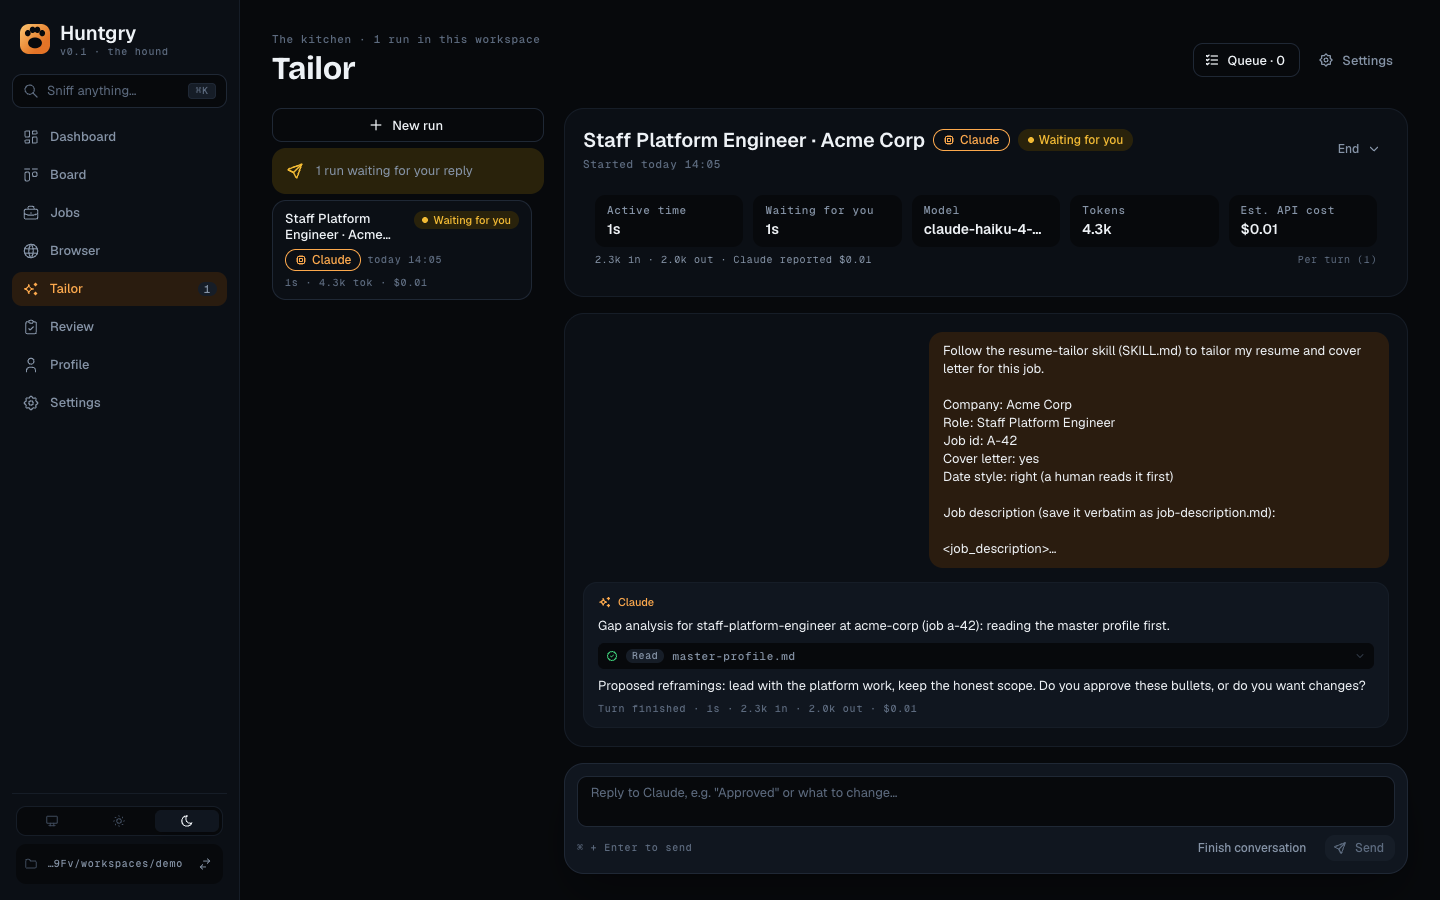
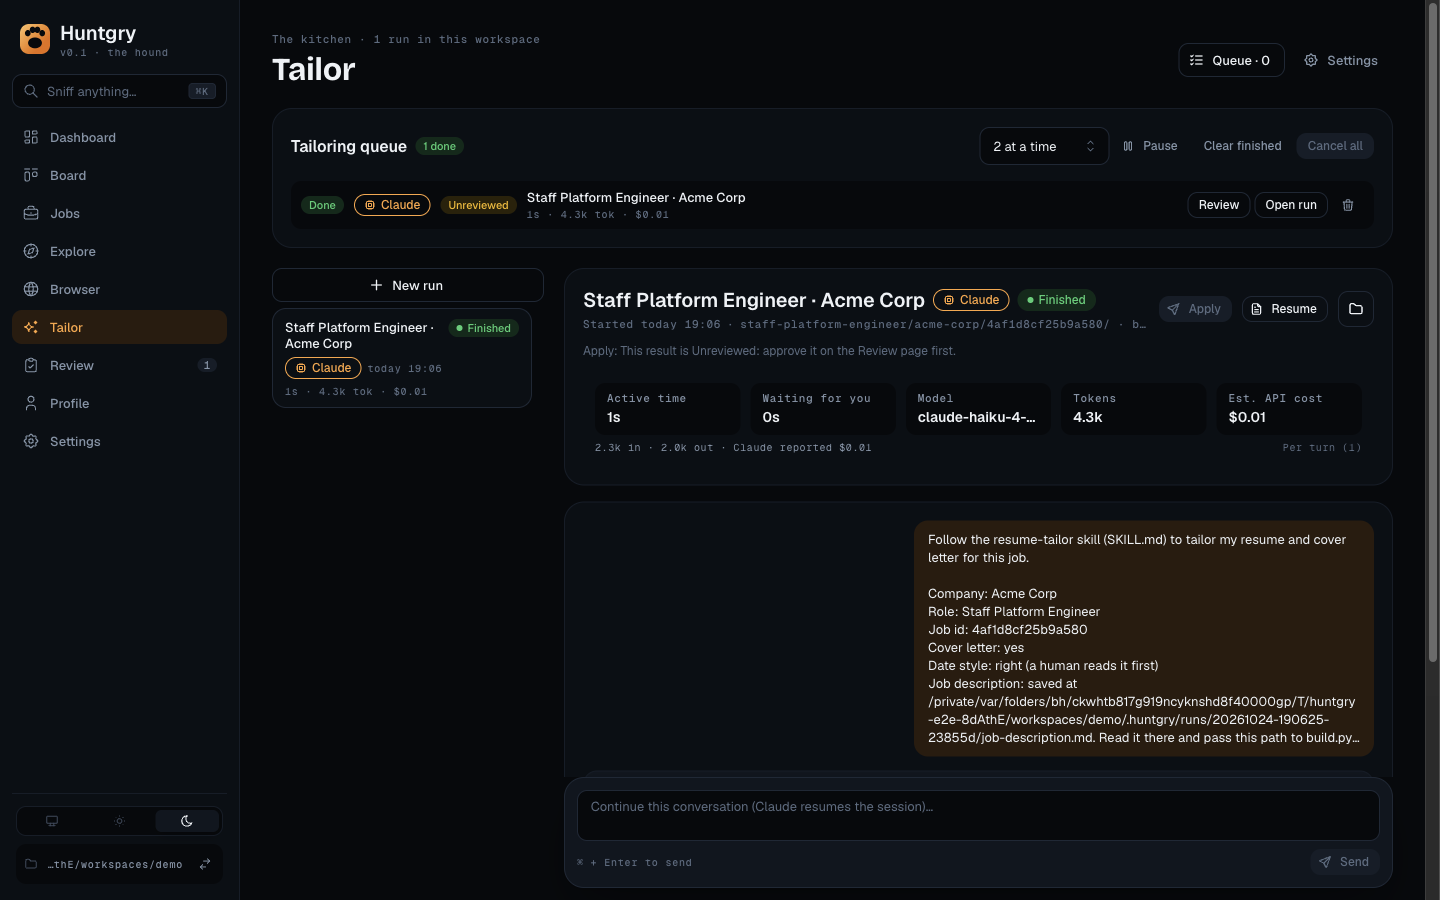
docs: document the single tailoring flow (#158)
docs/changes/158-single-flow.md: context, what changed and why, the
flow and notes-mapping diagrams, decisions and rejected alternatives,
before/after screenshots, the baseline and prompt-size numbers, how to
test and the follow-ups (#159, the Board pill, mobile copy, real-run
numbers). The README's Tailoring section and Tailor screenshot no
longer describe the approval step.

Refs #158

diff --git a/docs/changes/158-single-flow.md b/docs/changes/158-single-flow.md
@@ -1,0 +1,229 @@
+# #158: The automatic run is the only flow
+
+Issue: [silentashish/huntgry#158](https://github.com/silentashish/huntgry/issues/158) · Epic #156 · Needs #157 (resume-tailor v5) · Builds on [#31](31-unattended-pipeline.md), #42 · Followed by #159
+
+## Context & problem
+
+Huntgry had two tailoring flows and two prompts:
+
+- the **attended** run (Tailor page, "Approve each run" in **Tailor all**) stopped after the gap
+  analysis and waited for the user to type "Approved";
+- the **unattended** run (#31) never stopped, but left every bridgeable reframing *out* of the
+  resume, wrote them to `review-notes.md` (v1) and needed a re-run to use any of them.
+
+Both made the model retype the job description (`job-description.md`, a median 6.4 KB) and the
+unattended one wrote a second notes file (median 6.2 KB). resume-tailor v5 (#157) now carries the
+single flow itself: run to the end without asking, bridge boldly but never fabricate, list every
+bridge in `tailoring-notes.md` (v2, machine-readable), follow the caller's rules (wordings to avoid,
+preferred wordings), and read a job description the caller saved instead of retyping it.
+
+#158 makes Huntgry use that flow and nothing else. The user's decisions (final):
+
+1. the automatic run is the only flow; the attended approval stop goes;
+2. a job pasted on the Tailor page becomes a saved job (Jobs) and runs through the queue like any other;
+3. follow-up replies on a finished run stay ("make it shorter");
+4. results are read from `tailoring-notes.md` v2; older `review-notes.md` v1 results still parse;
+5. bridges are used confidently; nothing is fabricated (no invented employer, title, degree, date, number or skill).
+
+## What changed and why
+
+**One prompt** (`src/main/cli/command.ts`). `ATTENDED_APPROVAL_LINE`, `unattendedBlock` and the
+"APPROVAL RULE" are gone; `buildSystemPrompt` has one variant:
+
+- run the skill to the end without asking, never end a turn with a question; stop only when a
+  prerequisite is missing (no master profile, no job description), in one message;
+- the skill's honesty rule, spelled out: use the bridges you can make from master-profile facts,
+  list each with its source fact, never fabricate an employer, title, degree, date, number or skill;
+- the v2 notes format, verbatim (marker + Direct hits / Reframings used / Gaps left open /
+  Decisions), written to the drafts folder and passed with `build.py --notes`. It duplicates v5's
+  SKILL.md on purpose: a v4 skill writes the same file;
+- **caller rules**: standing approvals as *preferred wordings* (JSON, newest first, capped as
+  before) and *wordings to avoid* (an empty list until #159 stores Review rejections);
+- `--jd <saved path>` and one cost cap kept from #31: "if a hard check still fails after two
+  rebuilds, stop and say which".
+
+**Huntgry saves the job description** (`src/main/cli/runner.ts`, `runs.ts`). `RunManager.start`
+writes `params.jobDescription` to `.huntgry/runs/<run id>/job-description.md` before the agent
+starts; `buildFirstPrompt(params, path)` names that file ("read it there and pass this path to
+build.py --jd; do not write it out again") instead of embedding the text in `<job_description>`.
+`build.py --jd` copies it into the application folder, so the folder still has
+`job-description.md`. The file is under `.huntgry/`, which the application scan skips.
+
+**Notes v2** (`src/main/review/notes.ts`, `notes-file.ts`). `parseTailoringNotes` reads v2
+(marker-gated: free-form `tailoring-notes.md` of an older attended run yields nothing tickable).
+`parseReviewNotes` (v1) is unchanged, ids included. `notes-file.ts` is the one place that decides
+which notes a folder carries (v2 with the marker, else v1, else a free-form file shown raw with a
+warning); the verify gate, the Review service, the scan and the phone mapping all use it.
+
+**Every result goes through Review.**
+
+- *Verify gate* (`pipeline.ts`): v2 notes (or v1, for an older run settled again) pass; missing
+  notes or free-form `tailoring-notes.md` (a v4 skill that ignored the format) → Needs attention.
+  The nudge drops the approval rule.
+- *Queue* (`queue/ipc.ts`, `remote/gateway.ts`): the renderer's and the phone's `queue.enqueue`
+  create unattended items (no `pipelineId`); the pipeline's hooks already settle those.
+- *Tailor page* (`queue/tailor-job.ts`, `pages/tailor/*`): Start calls `queue:tailor`, which saves
+  the job (a job sent from Jobs / Board is used as it is through `savedJobId`; pasted text goes
+  through `addPasted`; a bare URL through `addByUrl`), queues it unattended and returns the item;
+  the page opens the run when the queue starts it. `runner:start` is gone, so nothing bypasses the
+  queue. The form loses its Job id field.
+- *Bulk modal* (`pages/jobs/*`): "Approve each run" is gone; **Tailor all** is the plan + pipeline.
+- *Review* (`review/service.ts`, `pages/review/*`): a v2 result shows **Reframings used** (ticking
+  one keeps it as a preferred wording, same ids as v1), **Gaps left open**, **Decisions** and the
+  direct hits (folded). v1 results render as before. The re-run message speaks of preferred
+  wordings and `tailoring-notes.md`.
+
+**States.** "Waiting for your approval" copy is gone (Tailor form and page, bulk modal, Review page,
+Standing approvals). `needs-reply` stays as a value (old `queue.json` items, phone DTOs) and now
+means a missing prerequisite after the one nudge. Follow-up replies on a finished run still go
+through the queue and bring the result back to Unreviewed.
+
+**Phone (#42)** (`src/main/remote/notes-file.ts`). No change in `src/shared/remote/*`. The phone
+asks for `review-notes.md`; when a folder has no v1 notes but v2 `tailoring-notes.md`, the desktop
+serves that file under the old name. The inline notes, gaps and reframings come from the Review
+service. ADR-0001 has a note.
+
+**Settings** (`cli/skill-version.ts`, `environment.ts`, `pages/settings`). The skill row shows
+"Huntgry needs v5" for an older copy and the Sync button reads "Update to v5 or later"; the
+environment check adds a warning, never a problem. SKILL.md has no version field and a hand-installed
+copy has no tag, so the copy's text decides (v5 carries the notes v2 marker); a known tag below v5
+counts too.
+
+**Data compatibility.** `unattended` stays on run and queue records (every new one has it); old runs
+without it, old attended queue items (`needs-reply`), folders with only `review-notes.md` v1, standing
+approval ids and v1 revisions all keep working (unit fixtures unchanged, e2e "an attended item saved
+before #158").
+
+**Also fixed.** `TailorQueue.launch`: a launch cancelled *and retried* while its agent was still
+starting adopted its stale run and then stopped the newer one. Saving the job description widened
+that window enough for `queue.test` to hit it; the launch now checks it is still the current attempt.
+
+## Diagrams
+
+The single flow:
+
+```mermaid
+flowchart LR
+  T["Tailor page<br/>Start tailoring"] -->|"queue:tailor<br/>addPasted / addByUrl / savedJobId"| J[("Saved job<br/>.huntgry/jobs")]
+  B["Jobs / Board<br/>Tailor all → plan"] -->|pipeline.start| J
+  P["Phone<br/>queue.enqueue"] --> J
+  J --> Q["Queue item<br/>unattended: true"]
+  Q -->|slot free| R["RunManager.start"]
+  R -->|writes| JD[".huntgry/runs/&lt;id&gt;/<br/>job-description.md"]
+  R -->|"first message names the file<br/>system prompt: run to the end,<br/>notes v2, caller rules"| A["Agent + resume-tailor v5"]
+  A -->|"build.py --jd &lt;saved&gt; --notes"| F["&lt;role&gt;/&lt;company&gt;/&lt;job-id&gt;/<br/>resume.pdf · resume_data.json<br/>build-report.json · job-description.md<br/>tailoring-notes.md v2"]
+  F --> G{"Verify gate"}
+  G -->|"built + verified + v2 notes"| U["Review: Unreviewed"]
+  G -->|"failed check / no or free-form notes"| N["Review: Needs attention"]
+  A -.->|"asked (missing prerequisite)"| Nu["one nudge"] -.->|still asking| NR["needs-reply"]
+  U -->|Approve| AP["Apply unlocked"]
+  U -->|"Re-run / follow-up reply"| Q
+```
+
+Which notes file Review reads, and what the phone sees:
+
+```mermaid
+flowchart TD
+  D["Application folder"] --> C{"tailoring-notes.md<br/>with the v2 marker?"}
+  C -->|yes| V2["v2: Direct hits · Reframings used ·<br/>Gaps left open · Decisions"]
+  C -->|no| C1{"review-notes.md?"}
+  C1 -->|yes| V1["v1: Used standing approvals · Proposed (not used) ·<br/>Open gaps · Notes"]
+  C1 -->|no| C2{"tailoring-notes.md<br/>(free-form)?"}
+  C2 -->|yes| RAW["raw text + parse warning<br/>(nothing tickable)"]
+  C2 -->|no| NONE["no notes: warning"]
+  V2 --> RD["ReviewDetail: proposedReframings = Reframings used (same ids)<br/>openGaps = Gaps left open · reviewNotes = v2 text"]
+  V1 --> RD1["ReviewDetail as before (same revision)"]
+  RD --> PH["Phone: same DTO; file.get review-notes.md<br/>→ tailoring-notes.md (desktop mapping)"]
+```
+
+## Design decisions
+
+- **Keep `unattended: true`** on every new record instead of a new `flow` field: every reader
+  (beforeReply, releaseIdle, the verify gate, the phone's run.reply guard) keeps working; the flag no
+  longer selects a prompt. The flag is set where items are created (the queue), not forced in
+  `RunManager`, so an old attended item's run still frees its slot as before.
+- **Ticking a used reframing = preferred wording.** v2 "Reframings used" go into
+  `proposedReframings` with the v1 ids, so approve / re-run / standing approvals and the phone work
+  unchanged. #159 adds Reject (→ wordings to avoid).
+- **Marker-gated v2.** `tailoring-notes.md` by name alone is not v2: 7 of 63 real older runs wrote
+  free-form ones and were never meant for Review. The scan, the gate and the phone check the marker
+  (first KiB only).
+- **Pasted jobs are saved jobs.** The Tailor page reuses `addPasted` / `addByUrl` (dedup by
+  URL or text, the ≥ 50-character rule of "Paste a job") instead of a parallel path. The folder's
+  job id comes from the saved job (`pasted:<sha256[0..16]>`): the form's Job id override is dropped.
+- **Settings warns, never blocks.** v4 keeps working: the prompt spells out "run to the end" and the
+  v2 format. A v4 run that still writes free-form notes lands in Needs attention, which is safe.
+- **Prompt injection.** The job description moved from the first message to a file the agent reads.
+  The trust level is the same (the agent reads untrusted text either way); tools stay allow-listed
+  and network-less, and the file is inside the workspace the sandbox already allows.
+
+### Alternatives considered
+
+- *A `flow: 'auto'` field on records*: cleaner name, but touches every reader and the phone DTOs for
+  no behaviour gain.
+- *Keep `runner:start` for the Tailor page*: simpler UI, but the run would skip the verify gate and
+  Review, and two code paths would keep diverging.
+- *Change the phone protocol to `tailoring-notes.md`*: needs a mobile release and a protocol bump for
+  a rename the desktop can absorb in one function.
+- *Drop the rebuild cap*: v5's step 7 already loops on the build, but the one-line cap bounds cost
+  on a check that cannot pass.
+
+## Screenshots
+
+| Before | After |
+| --- | --- |
+| ![Tailor form: "stops after the gap analysis"](158-images/before/tailor-form.png) | ![Tailor form: runs to the end, saved in Jobs and queued](158-images/after/tailor-form.png) |
+| ![A run waiting for "Approved"](158-images/before/tailor-run.png) | ![A run that built without asking, Finished, Apply locked until Review](158-images/after/tailor-run.png) |
+| ![Tailor all: Approve each run / Run unattended](158-images/before/bulk-modal.png) | ![Tailor all: the plan + pipeline only](158-images/after/bulk-modal.png) |
+| ![Review (v1): reframings the run left out](31-images/review-detail.png) | ![Review (v2): Reframings used, Gaps left open, Decisions](158-images/after/review-detail.png) |
+| | ![Settings: Huntgry needs v5 (non-blocking)](158-images/after/settings-skill.png) |
+
+## Numbers
+
+Baseline from the real workspace (61 finished unattended runs, Claude Opus 5.5, before #158): median
+active time **195 s**, output **21.1K tokens**, cost **$1.31**; median files the model wrote:
+`job-description.md` 6.4 KB, `review-notes.md` 6.2 KB, `resume_data.json` 11.6 KB.
+
+Prompt size (characters, 6,400-character job description, measured with the old and new
+`command.ts`):
+
+| | System prompt | First message | Total |
+| --- | ---: | ---: | ---: |
+| Attended, before | 1,628 | 6,746 | 8,374 |
+| Unattended, before | 3,652 | 6,746 | 10,398 |
+| Single flow, after | 3,000 | 427 | 3,427 |
+
+The model no longer writes the job description (≈ 6.4 KB) or a second notes file. Real-run "after"
+numbers (time, output tokens, cost on 3–5 runs) need the signed-in account and are added to the PR by
+the owner; the #152 benchmark does not exist yet.
+
+## How to test
+
+```bash
+npm run typecheck
+npx vitest run
+npm run build && npx playwright test -c e2e/playwright.config.ts
+npm run check:docs
+```
+
+- Unit: `cli.test` (one prompt, AC-1; first message names the saved file, AC-3), `runner.test`
+  (JD saved before the agent, copied by the build), `notes.test` / `notes-file.test` (v2, v1
+  unchanged, free-form), `service.test` (v2 detail, v1 revision unchanged), `pipeline.test` (gate
+  takes v2 / v1, free-form → Needs attention, pipeline-less items settle), `tailor-job.test`,
+  `remote/files.test` + `review.test` (phone mapping), `skill-version.test`, `ReviewPage.test`.
+- e2e: `single-flow.spec` (a Tailor-page run and a pipeline run leave the same files and both wait
+  in Review), `tailor.spec`, `tailor-queue.spec` (incl. an attended item from before #158),
+  `review-gate.spec`, `apply-*.spec` (approve on Review, then Apply).
+- By hand: paste a job on **Tailor** → it appears in **Jobs**, runs, ends **Finished**; **Review**
+  shows Reframings used / Gaps left open / Decisions; Apply opens after Approve. With resume-tailor
+  v4 installed, **Settings** shows "Huntgry needs v5" and runs still complete.
+
+## Follow-ups
+
+- #159: Reject a reframing on Review → stored rejections fill *wordings to avoid*; rename Standing
+  approvals → Reframing rules; phone protocol addition.
+- Board: the "Unattended" pill on queue cards is noise now that every run is unattended (left for
+  #160 / a follow-up, to stay out of `pages/board/*`).
+- Mobile copy: the phone's Review screen still says "Reframings the run left out"; v2 results are
+  the reframings used.
+- Real-run before/after numbers on 3–5 runs (owner, signed-in account), or the #152 benchmark.

diff --git a/README.md b/README.md
@@ -19,8 +19,8 @@
 - **Board and Dashboard**: every saved job and application in one place, from *To do* to *Offer*, with build
   results, PDFs, posting links and status tracking. See [Board](#board) and [Workspace](#workspace).
 - **Tailor**: runs the [resume-tailor skill](https://github.com/silentashish/claude-resume-generator-skill)
-  through Claude Code, Codex or Antigravity to write a resume and cover letter for one job, or a queue of them,
-  attended or unattended. See [Tailoring a resume](#tailoring-a-resume).
+  through Claude Code, Codex or Antigravity to write a resume and cover letter for one job, or a queue of them.
+  Every run goes to the end and you check the result on **Review**. See [Tailoring a resume](#tailoring-a-resume).
 - **Browser and Apply**: opens postings in a sandboxed in-app browser, fills Greenhouse, Lever and generic forms
   from your master profile and attaches the tailored PDFs. You review and submit. See [Browser](#browser) and
   [Applying](#applying).
@@ -38,7 +38,7 @@ the agent CLI you already use.
 <table>
   <tr>
     <td width="50%"><img src="docs/assets/screenshots/board.png" alt="Board: jobs as cards in Kanban columns from To do to Ready to apply"><br><sub><b>Board</b>: every job as a card, from saved to signed.</sub></td>
-    <td width="50%"><img src="docs/assets/screenshots/tailor.png" alt="Tailor: a run of the resume-tailor skill waiting for the user's approval"><br><sub><b>Tailor</b>: a run waiting for your approval of its reframings.</sub></td>
+    <td width="50%"><img src="docs/assets/screenshots/tailor.png" alt="Tailor: a finished run of the resume-tailor skill"><br><sub><b>Tailor</b>: a run that went to the end; its result waits on Review.</sub></td>
   </tr>
   <tr>
     <td colspan="2"><img src="docs/assets/screenshots/apply.png" alt="Browser with the Apply panel: a Lever form filled from the master profile"><br><sub><b>Apply</b>: a form filled from your master profile in the in-app browser; you review it and press Submit.</sub></td>
@@ -280,25 +280,28 @@ address outright; packaged builds ignore it too.
 (`claude`), Codex (`codex`) or Antigravity (`agy`) — in the open
 workspace: paste a job description, or give an employer or ATS posting URL (job board URLs
 such as Indeed cannot be read directly; paste those), pick the agent (the
-default one from **Settings** is preselected), follow its gap analysis, answer
-its approval question, and open the resulting `resume.pdf` / `cover.pdf`. Runs are kept in
-`<workspace>/.huntgry/runs/` and can be reopened and continued after a restart.
+default one from **Settings** is preselected) and press **Start tailoring**. The job is saved in
+**Jobs** and queued like any other; the run goes to the end without asking (it stops only when a
+prerequisite is missing), uses the bridges it can make honestly from your master profile, lists each
+one in `tailoring-notes.md`, and builds `resume.pdf` / `cover.pdf`. Huntgry saves the job description
+for the run, so the model never retypes it. Runs are kept in `<workspace>/.huntgry/runs/` and can be
+continued afterwards ("make it shorter"). Huntgry needs resume-tailor v5; Settings offers the update
+(older copies still work).
 
 To tailor several jobs at once, tick them on **Jobs** and press **Tailor all**. Huntgry
 queues one run per job in `<workspace>/.huntgry/queue.json` and starts them itself, two at a
 time by default (up to four), a couple of seconds apart. The queue is shown at the top of
-**Tailor**. Each run still stops at the approval step: it shows **Needs your reply**, and the
-next job starts in its place. Jobs with only a board summary (Indeed) are skipped with a note.
+**Tailor**. Jobs with only a board summary (Indeed) are skipped with a note.
 **Tailor all** picks one agent for the batch; each queued job can switch to another agent
 until it starts, so one job can go to Claude and the next to Codex.
 After a restart the queue is paused until you press **Resume**.
 
-**Run unattended** (the second mode of **Tailor all**) tailors up to 100 jobs without anyone
-answering: each run uses only your master-profile facts and your *standing approvals*, leaves every
-other reframing out, lists it in `review-notes.md`, and builds and verifies in one go. Results land
-as **Unreviewed** on the new **Review** page (and cannot be auto-applied until you approve them);
-approving ticked reframings saves them as standing approvals, which later unattended runs may reuse
-and which **Settings** lists. Review decisions and standing approvals are kept with the app's data
+**Tailor all** plans the batch first and then runs it as a pipeline of up to 100 jobs. Every result,
+from **Tailor all** or the Tailor page, goes through a verify gate and lands as **Unreviewed** on the
+**Review** page, which shows the reframings the run used, the gaps it left open and its decisions (it
+cannot be applied until you approve it); ticking a reframing saves it as a standing approval, which
+later runs get as the preferred wording and which **Settings** lists. See
+[docs/changes/158-single-flow.md](docs/changes/158-single-flow.md). Review decisions and standing approvals are kept with the app's data
 (`~/Library/Application Support/Huntgry/review/`), outside the workspace, so an agent (which can write
 the workspace) can never approve its own result. The pipeline pauses on a usage limit until the
 agent's reset time (or switches the jobs that have not started to a fallback agent), retries transient failures and stalls with backoff, keeps the
